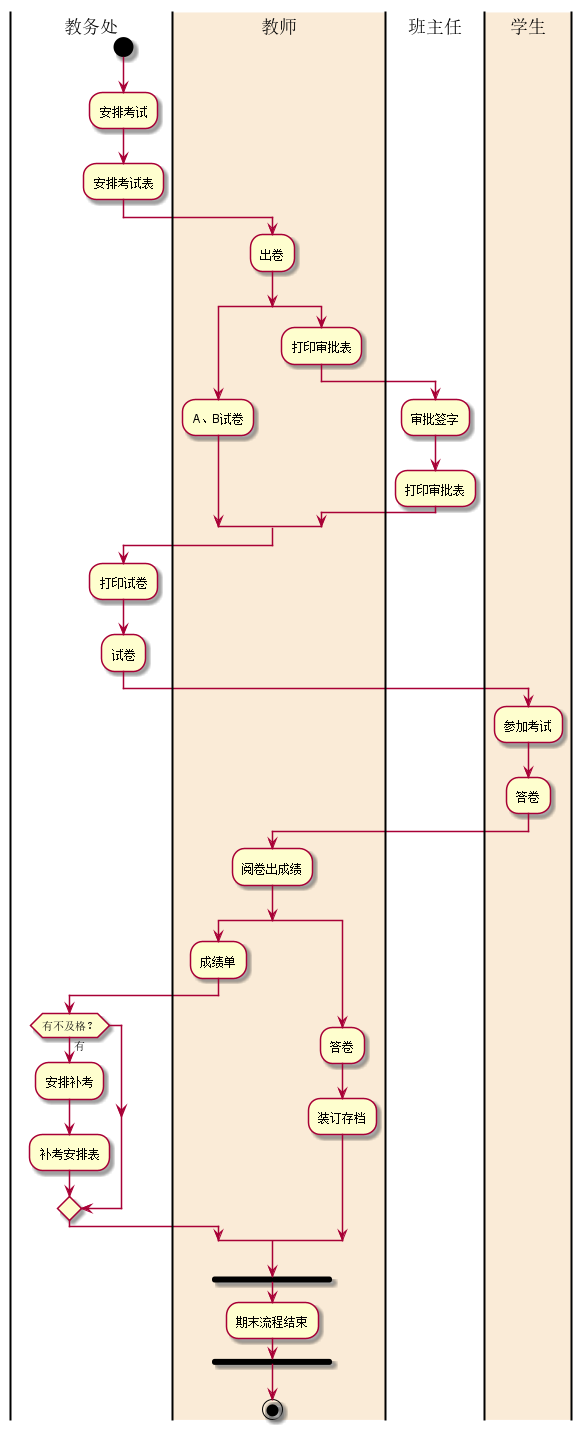
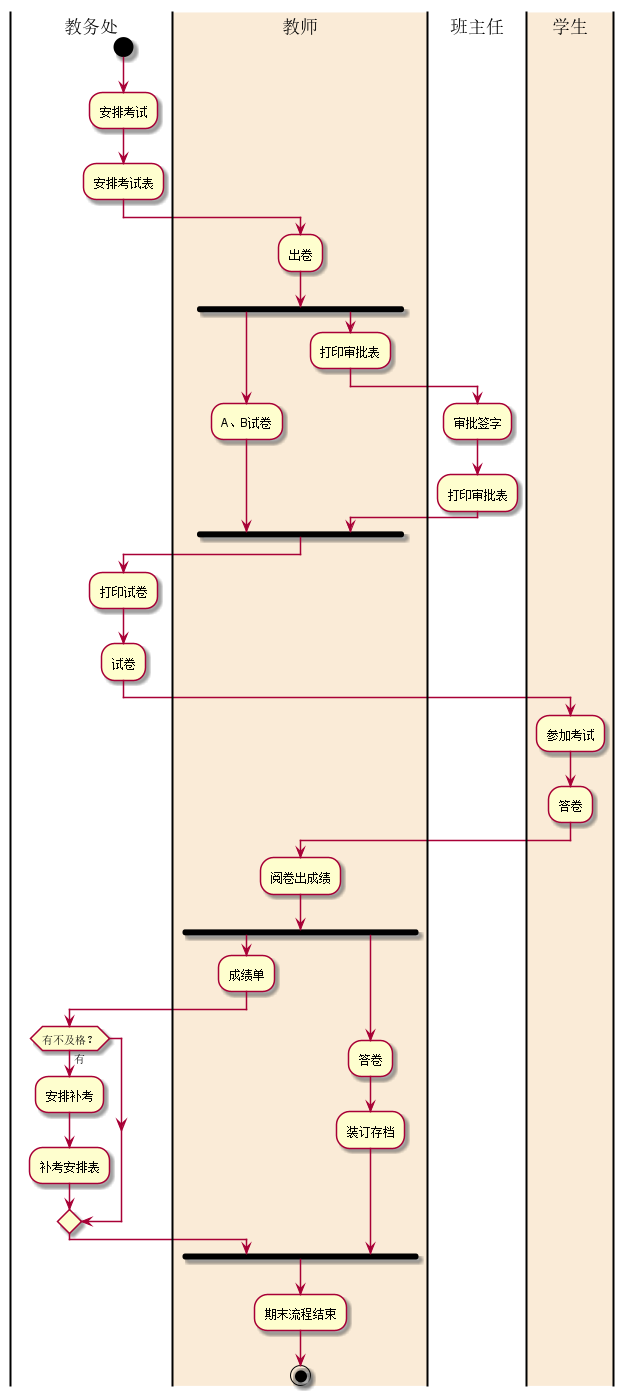
test1

Changed region(s): [[0.0928, 0.0, 0.9897, 1.0], [0.0, 0.0, 0.2165, 1.0], [0.433, 0.0, 0.4948, 0.0308]]

diff --git a/test1/README.md b/test1/README.md
@@ -9,14 +9,14 @@ start
 :安排考试表;
 |#AntiqueWhite|教师|
 :出卷;
-split
+fork
     :A、B试卷;
-split again
+fork again
     :打印审批表;
         |班主任|
     :审批签字;
     :打印审批表;
-end split
+end fork
 |教务处|
 :打印试卷;
 :试卷;
@@ -25,21 +25,19 @@ end split
 :答卷;
 |教师|
 :阅卷出成绩;
-split
+fork
     :成绩单;
     |教务处|
     if(有不及格？)then(有)
         :安排补考;
         :补考安排表;
     endif
-split again
+fork again
 |教师|
 :答卷;
 :装订存档;
-endsplit
-fork
-:期末流程结束;
 endfork
+:期末流程结束;
 stop
 @enduml
 ```
@@ -48,6 +46,12 @@ stop
 ![图片加载失败](./img1.png)
 
 流程说明：
+   
+> 开始由教务处安排全校课程的考试，下发考试安排表。在由教师出卷，各任教师准备好A、B
+卷，填写试卷打印审批表一并交于系主任审批签字，将将选中的期末试卷和已签字的试卷打印审批表送
+交教务处印刷部门进行印刷。学生按时到达指定考场参加考试，考试完毕任课教师进行阅卷，产出成绩
+单，并对学生答卷装订存档。如成绩有不及格情况，教务处负责安排补考时间和地点，产生补考安排表，
+期末流程结束。
 
 ### 流程图2： 客户维修服务流程
 PlantUML源码如下：
@@ -92,4 +96,11 @@ stop
 
 ![图片加载失败](./img2.png)
 
-流程说明：
+流程说明： 
+
+>流程从客户申请服务开始,如果是新客户，业务经理将该客户的基本信息记录下来。接下来
+业务经理将上门进行勘察，并制定具体“维修方案”。业务经理和客户就方案进行沟通，如果达成致，则
+签订正式“服务合同”,否则流程终结。根据合同方案，业务经理将对实施维修的人员和所需材料进行
+计划,并填发“派工单”。工人拿到派工单后.领取指定材料上门实施服务。服务完成后客户进行验收,
+并在“派工单”上填写维修信息和反馈意见，业务经理收回派工单后，通知财务人员进行项目的结算
+并收教。客户维修服务流程结束。
